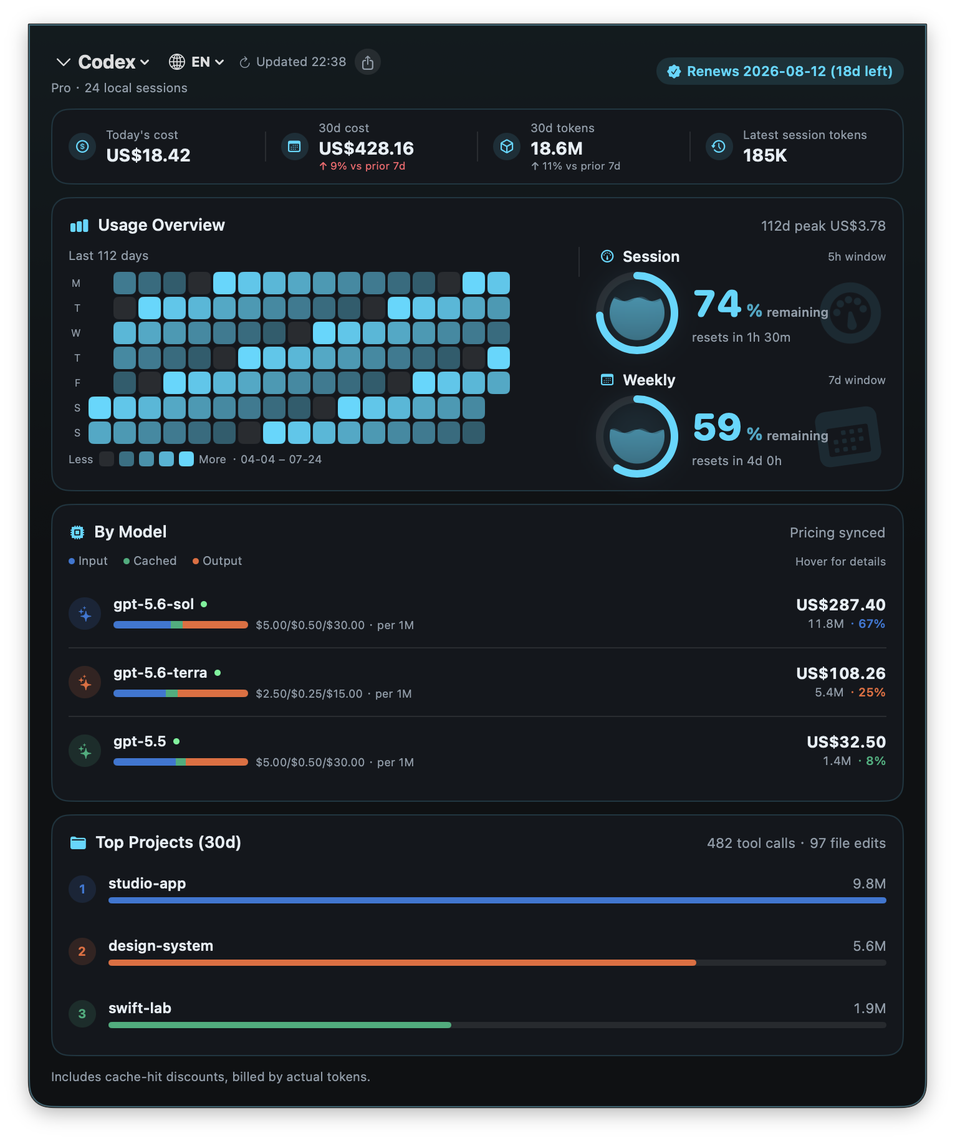
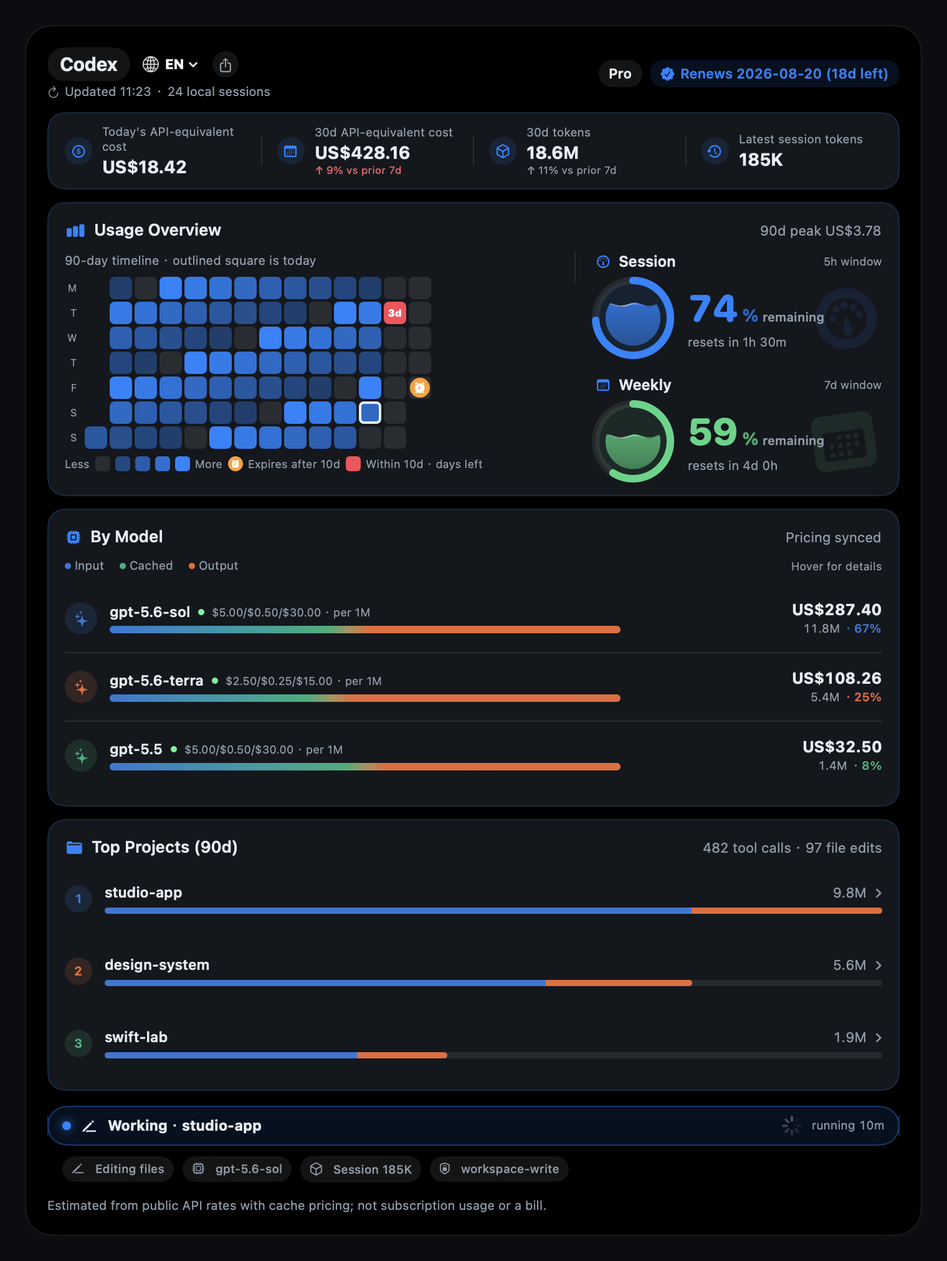
feat: clarify reset expiry heatmap

diff --git a/aibar/Sources/aibar/Features/Dashboard/UsageChartView.swift b/aibar/Sources/aibar/Features/Dashboard/UsageChartView.swift
@@ -6,8 +6,10 @@ private func shortDate(_ isoDate: String) -> String {
 }
 
 /// Presentation policy for manually redeemable reset credits: distant credits
-/// remain quiet calendar markers, while credits expiring within ten days carry
-/// their exact expiry time and an urgency color.
+/// stay quiet alarm markers on their calendar day, while credits expiring
+/// within ten days turn red and carry their remaining-day count. The date
+/// itself is never spelled out — the marker's position in the heatmap is the
+/// date.
 enum ResetExpiryUrgency {
     static let detailedWindow: TimeInterval = 10 * 86_400
 
@@ -94,8 +96,8 @@ struct UsageChartView: View {
     private static let cellSize: CGFloat = 18
     private static let cellSpacing: CGFloat = 2
     private static let legendRatios: [Double] = [0, 0.25, 0.5, 0.75, 1.0]
-    private static let resetColor = Color(red: 1.000, green: 0.280, blue: 0.340)
-    private static let resetSoonColor = Color(red: 1.000, green: 0.620, blue: 0.160)
+    private static let resetUrgentColor = Color(red: 1.000, green: 0.280, blue: 0.340)
+    private static let resetScheduledColor = Color(red: 1.000, green: 0.620, blue: 0.160)
 
     private var daily: [DailyPoint] { timeline.points }
 
@@ -141,43 +143,35 @@ struct UsageChartView: View {
         return timeline.resetExpiriesByDate[point.date] ?? []
     }
 
-    private var expiringSoon: [Double] {
-        timeline.resetExpiriesByDate.values
-            .flatMap { $0 }
-            .filter { ResetExpiryUrgency.isDetailed($0) }
-            .sorted()
-    }
-
-    private func urgencyColor(for expiry: Double) -> Color {
-        switch ResetExpiryUrgency.daysRemaining(expiry) {
-        case 0...1: return Self.resetColor
-        case 2...3: return Color(red: 1.000, green: 0.460, blue: 0.180)
-        default: return Self.resetSoonColor
-        }
+    /// Days left until an imminent expiry. Deliberately unlocalized: at this
+    /// size a CJK glyph is unreadable, and the dashboard already uses the bare
+    /// `d` suffix in both languages (`30d 窗口`).
+    private static func daysLeftBadge(_ expiry: Double) -> String {
+        "\(ResetExpiryUrgency.daysRemaining(expiry))d"
     }
 
     @ViewBuilder
     private func resetMarker(for expiries: [Double]) -> some View {
         if let imminent = expiries.first(where: { ResetExpiryUrgency.isDetailed($0) }) {
             RoundedRectangle(cornerRadius: 4)
-                .fill(urgencyColor(for: imminent))
+                .fill(Self.resetUrgentColor)
                 .overlay(
-                    Text(Formatting.compactTimeLabel(imminent))
-                        .font(.system(size: 5.5, weight: .heavy, design: .monospaced))
+                    Text(Self.daysLeftBadge(imminent))
+                        .font(.system(size: 8, weight: .heavy, design: .rounded))
                         .foregroundStyle(Color.white)
                         .lineLimit(1)
-                        .minimumScaleFactor(0.7)
+                        .minimumScaleFactor(0.6)
                         .padding(.horizontal, 1)
                 )
                 .accessibilityLabel(
-                    "\(L.resetExpiresSoon(lang)): \(Formatting.compactTimeLabel(imminent)), \(L.resetExpiryWithinDays(lang, days: ResetExpiryUrgency.daysRemaining(imminent)))"
+                    L.resetExpiryWithinDays(lang, days: ResetExpiryUrgency.daysRemaining(imminent))
                 )
         } else {
             Circle()
-                .fill(Self.resetColor)
+                .fill(Self.resetScheduledColor)
                 .frame(width: Self.cellSize - 2, height: Self.cellSize - 2)
                 .overlay(
-                    Image(systemName: "arrow.counterclockwise")
+                    Image(systemName: "alarm.fill")
                         .font(.system(size: 8, weight: .heavy))
                         .foregroundStyle(Color.white)
                 )
@@ -190,6 +184,7 @@ struct UsageChartView: View {
             HStack {
                 if let hovered {
                     let expiries = resetExpiries(for: hovered)
+                    let isUrgent = expiries.contains { ResetExpiryUrgency.isDetailed($0) }
                     Text(
                         expiries.isEmpty
                             ? L.heatmapHover(lang, date: shortDate(hovered.date), cost: Formatting.moneyLabel(hovered.cost), tokens: Formatting.tokenLabel(hovered.tokens))
@@ -201,7 +196,11 @@ struct UsageChartView: View {
                             )
                     )
                         .font(.system(size: 10, weight: .semibold))
-                        .foregroundStyle(expiries.isEmpty ? Color.notchAccent : Self.resetColor)
+                        .foregroundStyle(
+                            expiries.isEmpty
+                                ? Color.notchAccent
+                                : (isUrgent ? Self.resetUrgentColor : Self.resetScheduledColor)
+                        )
                 } else {
                     Text(L.heatmapTimelineHint(lang, days: daily.count))
                         .font(.system(size: 10))
@@ -272,54 +271,19 @@ struct UsageChartView: View {
                 }
                 Text(L.more(lang)).font(.system(size: 9)).foregroundStyle(Color.notchMutedInk)
                 Circle()
-                    .fill(Self.resetColor)
+                    .fill(Self.resetScheduledColor)
                     .frame(width: 12, height: 12)
                     .overlay(
-                        Image(systemName: "arrow.counterclockwise")
+                        Image(systemName: "alarm.fill")
                             .font(.system(size: 6, weight: .heavy))
                             .foregroundStyle(Color.white)
                     )
                 Text(L.resetExpiryLegend(lang)).font(.system(size: 9)).foregroundStyle(Color.notchMutedInk)
                 RoundedRectangle(cornerRadius: 3)
-                    .fill(Self.resetSoonColor)
+                    .fill(Self.resetUrgentColor)
                     .frame(width: 12, height: 12)
-                    .overlay(
-                        Image(systemName: "clock.fill")
-                            .font(.system(size: 6, weight: .heavy))
-                            .foregroundStyle(Color.white)
-                    )
-                Text(L.resetExpiresSoon(lang)).font(.system(size: 9)).foregroundStyle(Color.notchMutedInk)
-                if let first = daily.first, let last = daily.last {
-                    Text("· \(shortDate(first.date)) – \(shortDate(last.date))")
-                        .font(.system(size: 9)).foregroundStyle(Color.notchMutedInk)
-                }
+                Text(L.resetExpiryUrgentLegend(lang)).font(.system(size: 9)).foregroundStyle(Color.notchMutedInk)
                 Spacer(minLength: 0)
-            }
-
-            if !expiringSoon.isEmpty {
-                VStack(alignment: .leading, spacing: 4) {
-                    Text(L.resetExpiresSoon(lang))
-                        .font(.system(size: 10, weight: .bold))
-                        .foregroundStyle(Self.resetSoonColor)
-
-                    ForEach(expiringSoon, id: \.self) { expiry in
-                        let days = ResetExpiryUrgency.daysRemaining(expiry)
-                        HStack(spacing: 6) {
-                            Circle()
-                                .fill(urgencyColor(for: expiry))
-                                .frame(width: 6, height: 6)
-                            Text("\(shortDate(Self.isoFormatter.string(from: Date(timeIntervalSince1970: expiry)))) \(Formatting.compactTimeLabel(expiry))")
-                                .font(.system(size: 10, weight: .semibold, design: .monospaced))
-                                .foregroundStyle(Color.notchInk)
-                            Text(L.resetExpiryWithinDays(lang, days: days))
-                                .font(.system(size: 10, weight: .medium))
-                                .foregroundStyle(urgencyColor(for: expiry))
-                            Spacer(minLength: 0)
-                        }
-                    }
-                }
-                .padding(.top, 2)
-                .accessibilityElement(children: .contain)
             }
         }
     }

diff --git a/aibar/Sources/aibar/Core/Services/UsageStore.swift b/aibar/Sources/aibar/Core/Services/UsageStore.swift
@@ -289,9 +289,10 @@ final class UsageStore: ObservableObject {
     }
 
     /// A deterministic, non-sensitive dataset for UI checks and README assets.
-    /// It is available only with `--demo`; ordinary launches always inspect the
-    /// user's local records instead.
-    private static func demoPayload() -> UsagePayload {
+    /// It drives the app only with `--demo` — ordinary launches always inspect
+    /// the user's local records instead — and is reachable directly so the
+    /// documentation images can be rendered from the same numbers.
+    static func demoPayload() -> UsagePayload {
         let now = Date()
         let calendar = Calendar(identifier: .gregorian)
         let daily = (0..<112).map { offset -> DailyPoint in
@@ -357,9 +358,11 @@ final class UsageStore: ObservableObject {
             ],
             subscriptionPlan: "Pro",
             subscriptionActiveUntil: calendar.date(byAdding: .day, value: 19, to: now),
+            // One credit on each side of the ten-day line, so the heatmap shows
+            // both expiry markers: the quiet alarm and the red days-left cell.
             rateLimitResetCredits: RateLimitResetCredits(
-                availableCount: 1,
-                expiresAt: [resetBase + 13 * 86_400]
+                availableCount: 2,
+                expiresAt: [resetBase + 3 * 86_400, resetBase + 13 * 86_400]
             )
         )
     }

diff --git a/aibar/Sources/aibar/Core/Support/Localization.swift b/aibar/Sources/aibar/Core/Support/Localization.swift
@@ -33,8 +33,8 @@ enum L {
     static func resetExpiryLegend(_ lang: AppLanguage) -> String {
         lang == .zh ? "10 天后到期" : "Expires after 10d"
     }
-    static func resetExpiresSoon(_ lang: AppLanguage) -> String {
-        lang == .zh ? "即将到期" : "Expires soon"
+    static func resetExpiryUrgentLegend(_ lang: AppLanguage) -> String {
+        lang == .zh ? "10 天内 · 剩余天数" : "Within 10d · days left"
     }
     static func resetExpiryWithinDays(_ lang: AppLanguage, days: Int) -> String {
         if days == 0 { return lang == .zh ? "今天到期" : "Expires today" }

diff --git a/README.md b/README.md
@@ -2,7 +2,7 @@
 
 [English](#english) · [简体中文](#简体中文)
 
-一个为 macOS 设计的本地 AI 使用情况仪表盘。aibar 把 Codex 的本地会话记录、配额和活动状态收进刘海下方与状态栏：需要时展开查看，不需要时保持安静。
+一个为 macOS 设计的本地 AI 用量仪表盘：aibar 把 Codex 的本地会话记录、配额和运行状态收进刘海下方与状态栏，并用 `fn + 4` 提供一套为 AI 协作准备的截图标注工具——需要时展开查看，不需要时保持安静。
 
 > 版本 0.1.8 · macOS 13 Ventura 或更高版本 · Apple Silicon
 
@@ -12,15 +12,30 @@
 
 ### 功能一览
 
-- **刘海仪表盘**：将指针移到 MacBook 刘海区域，或点击状态栏中的趋势图标，即可展开仪表盘。它展示今日与本月的 API 等价费用、Token、最近会话、会话／周配额、每日使用热图、模型明细、常用项目和工具调用／文件改动统计。
-- **状态栏入口**：左键状态栏图标可直接显示或隐藏仪表盘；右键可开关运行胶囊、开始截图或退出应用。
-- **运行状态胶囊**：在刘海下方显示 Codex 正在进行的工作。每个胶囊显示项目、模型、当前阶段、耗时和上下文 Token；悬停可展开多个并行任务，点击可回到对应的 Codex 对话。任务确认完成后会短暂显示结果，避免把内部回合切换误报为完成。
-- **为 AI 协作优化的截图**：按 `fn + 4` 后拖拽选择区域，进入标注编辑器。可用方框、箭头、圆形、自由画笔和“文字 → 箭头”标记；每个标记自动编号，删除后会重新排序。支持选中删除、撤销、选择颜色、复制到剪贴板和保存图片，便于把明确、可引用的视觉反馈交给 AI 或同事。
-- **中英文界面**：首次启动跟随 macOS 语言；在仪表盘标题栏的语言菜单中选择“中文”或 “English”，选择会在下次启动后保留。
-- **分享卡片**：从仪表盘生成可分享的使用情况卡片，并选择不同的视觉样式。
+以下条目对应上方截图，自上而下即是仪表盘的排布。
+
+- **刘海仪表盘与状态栏入口**：把指针移到 MacBook 刘海区域，或点击状态栏的趋势图标即可展开；左键显示／隐藏仪表盘，右键可开关运行胶囊、开始截图或退出。应用不占用 Dock。
+- **顶部统计条**：今日与 30 天 API 等价费用、30 天 token、最近会话 token，每项都附带与前 7 天的涨跌。
+- **用量总览**：90 天用量热图（含 reset 额度到期标记），右侧是会话（5 小时）与周（7 天）配额，显示剩余百分比和重置倒计时。
+- **按模型统计**：每个模型的费用、token 占比和输入／缓存／输出单价，并标明价格来自实时同步还是离线缓存。
+- **最活跃项目**：按 token 排序的本地项目，点击展开可看模型占比，右上角同时给出工具调用与文件改动次数。
+- **运行状态胶囊**：在刘海下方显示 Codex 正在进行的工作——项目、模型、当前阶段、耗时和上下文 token。悬停可展开多个并行任务，点击可回到对应的 Codex 对话；任务确认完成后才会短暂显示结果，避免把内部回合切换误报为完成。
+- **为 AI 协作优化的截图**：按 `fn + 4` 拖拽选择区域，进入标注编辑器。可用方框、箭头、圆形、自由画笔和“文字 → 箭头”标记；每个标记自动编号，删除后会重新排序。支持选中删除、撤销、选择颜色、复制到剪贴板和保存图片，便于把明确、可引用的视觉反馈交给 AI 或同事。
+- **订阅到期徽章**：读取本地 Codex 登录凭据中的 ChatGPT 订阅信息，在标题栏右上角显示续费日期与剩余天数。
+- **中英文界面与分享卡片**：首次启动跟随 macOS 语言，可在仪表盘标题栏切换，选择会保留到下次启动；分享按钮可生成不同视觉样式的用量卡片。
 - **安全自动更新**：启动时及之后每 6 小时检查 GitHub Releases。右键状态栏图标后选择“检查更新”，若有可用版本，会在 SHA-256 校验完成后自动安装并重启。更新包还必须和当前应用拥有相同的 Bundle ID 与 Developer ID 签名，才能保留 macOS 的屏幕录制等隐私授权；签名不一致时会拒绝自动替换，避免静默失去授权。
-- **本地优先**：Codex 的会话与活动数据在本机读取、聚合。aibar 不上传提示词、响应内容或文件内容；模型定价信息会从公开价格页读取并在本地缓存，显示金额为 API 等价估算，不是账单。
-- **主动预加载**：启动（包括首次安装后首次打开）会立即读取本地会话，并并行刷新模型定价；无需先打开仪表盘即可尽快看到完整数据。
+- **本地优先与主动预加载**：会话与活动数据只在本机读取、聚合，aibar 不上传提示词、响应内容或文件内容；模型定价从公开价格页读取并在本地缓存，显示金额为 API 等价估算，不是账单。启动（包括首次安装后首次打开）会立即读取本地会话并并行刷新定价，无需先打开仪表盘。
+
+### 用量热图
+
+![用量热图](docs/images/heatmap-zh.png)
+
+热图是一条 90 天时间轴：按周一至周日分行、整周成列，颜色深浅表示当天的 API 等价费用，白色方框标记今天。可手动兑换的 reset 额度直接落在它到期的那一格上：
+
+- **闹钟标记**：10 天以后到期，作为安静的日历标记存在。
+- **红色格子**：10 天以内到期，格内直接写出剩余天数（例如 `3d`）。
+
+到期日期不再单独列出——标记所在的格子就是日期。悬停任意格子可以查看当天的费用与 token，或该格上 reset 的具体到期时间。
 
 ### 安装
 
@@ -125,19 +140,34 @@ SIGNING_IDENTITY="Developer ID Application: Your Name (TEAMID)" \
 
 ### Overview
 
-aibar is a local-first macOS dashboard for AI coding activity. It turns Codex session records, quota data, and live activity into a compact view beneath your MacBook notch and a convenient menu-bar control.
+aibar is a local-first macOS dashboard for AI coding usage: it folds Codex session records, quota data, and live activity into the space beneath your MacBook notch and the menu bar, and puts an annotation tool built for AI feedback on `fn + 4` — open when you need it, silent when you don't.
 
 ### Features
 
-- **Notch dashboard** — Hover over the notch or click the menu-bar trend icon to open a dashboard with today/month API-equivalent cost, tokens, recent-session usage, session and weekly limits, daily usage heatmap, model breakdown, top projects, and tool/file-change totals.
-- **Menu-bar controls** — Left-click to show or hide the dashboard. Right-click to toggle the activity capsule, start a screenshot, or quit.
+The list below follows the screenshot at the top of this page, from top to bottom.
+
+- **Notch dashboard and menu-bar controls** — Hover over the notch or click the menu-bar trend icon to open the dashboard. Left-click toggles it; right-click toggles the activity capsule, starts a screenshot, or quits. Nothing occupies the Dock.
+- **Stat strip** — Today's and 30-day API-equivalent cost, 30-day tokens, and latest-session tokens, each with its trend against the prior 7 days.
+- **Usage overview** — A 90-day usage heatmap with reset-credit expiry markers, beside session (5h) and weekly (7d) quota meters showing percent remaining and reset countdowns.
+- **By model** — Per-model cost, token share, and input/cached/output rates, labeled as live or cached pricing.
+- **Top projects** — Local projects ranked by tokens, expandable to per-model shares, with tool-call and file-edit totals alongside.
 - **Live activity capsule** — A floating capsule under the notch reports active Codex work: project, model, phase, elapsed time, and context tokens. Hover to expand simultaneous conversations; click a capsule to return to its Codex conversation. Completion notices are confirmed across polls so an internal turn boundary is not presented as a finished task.
 - **Screenshots made for AI feedback** — Press `fn + 4`, select a region, then annotate it with rectangles, arrows, ovals, freehand pen marks, or text-to-arrow callouts. Marks are automatically numbered and renumber after deletion. Select/delete, undo, color selection, copy, and save are all built in, making visual feedback precise and easy to reference.
-- **Chinese and English UI** — The initial language follows macOS. Switch between 中文 and English from the dashboard header; the choice persists across launches.
-- **Share cards** — Generate a shareable usage summary card with selectable styles.
+- **Subscription badge** — Renewal date and days left, read from the ChatGPT subscription info in the local Codex credentials.
+- **Bilingual UI and share cards** — The initial language follows macOS; switch between 中文 and English from the dashboard header and the choice persists across launches. The share button exports a usage summary card with selectable styles.
 - **Safe automatic updates** — Check GitHub Releases at launch and every six hours. Choose **Check for Updates** from the menu-bar icon’s right-click menu to download, verify, install, and relaunch when an update is available. Automatic replacement requires the same bundle ID and Developer ID signing identity, preserving macOS privacy consent such as Screen Recording; a mismatched signature is refused rather than silently changing that identity.
-- **Local first** — Session and activity data are read and aggregated on your Mac. aibar does not upload prompts, responses, or file contents. Public pricing data may be fetched and cached locally; displayed prices are API-equivalent estimates, not invoices.
-- **Eager loading** — At launch, including the first launch after installation, aibar immediately reads local sessions and refreshes model pricing in parallel, so the dashboard does not need to be opened before data begins loading.
+- **Local first and eager loading** — Session and activity data are read and aggregated on your Mac; aibar does not upload prompts, responses, or file contents. Public pricing data may be fetched and cached locally, and displayed prices are API-equivalent estimates, not invoices. At launch, including the first launch after installation, local sessions are read and pricing refreshed in parallel, so the dashboard does not need to be opened before data loads.
+
+### Usage heatmap
+
+![usage heatmap](docs/images/heatmap-en.png)
+
+The heatmap is a 90-day timeline laid out as full Mon–Sun weeks: color encodes that day's API-equivalent cost, and an outlined square marks today. Manually redeemable reset credits sit on the exact day they expire:
+
+- **Alarm marker** — expires more than 10 days out, kept as a quiet calendar marker.
+- **Red cell** — expires within 10 days, with the days left written straight into the cell (`3d`).
+
+Expiry dates are never spelled out separately: the marker's position on the grid is the date. Hover any cell for that day's cost and tokens, or for a reset's exact expiry time.
 
 ### Install
 

diff --git a/AGENTS.md b/AGENTS.md
@@ -1,0 +1,44 @@
+<!-- gitnexus:start -->
+# GitNexus — Code Intelligence
+
+This project is indexed by GitNexus as **aibar** (2275 symbols, 8873 relationships, 200 execution flows). Use the GitNexus MCP tools to understand code, assess impact, and navigate safely.
+
+> Index stale? Run `node .gitnexus/run.cjs analyze` from the project root — it auto-selects an available runner. No `.gitnexus/run.cjs` yet? `npx gitnexus analyze` (npm 11 crash → `npm i -g gitnexus`; #1939).
+
+## Always Do
+
+- **MUST run impact analysis before editing any symbol.** Before modifying a function, class, or method, run `impact({target: "symbolName", direction: "upstream"})` and report the blast radius (direct callers, affected processes, risk level) to the user.
+- **MUST run `detect_changes()` before committing** to verify your changes only affect expected symbols and execution flows. For regression review, compare against the default branch: `detect_changes({scope: "compare", base_ref: "main"})`.
+- **MUST warn the user** if impact analysis returns HIGH or CRITICAL risk before proceeding with edits.
+- When exploring unfamiliar code, use `query({search_query: "concept"})` to find execution flows instead of grepping. It returns process-grouped results ranked by relevance.
+- When you need full context on a specific symbol — callers, callees, which execution flows it participates in — use `context({name: "symbolName"})`.
+- For security review, `explain({target: "fileOrSymbol"})` lists taint findings (source→sink flows; needs `analyze --pdg`).
+
+## Never Do
+
+- NEVER edit a function, class, or method without first running `impact` on it.
+- NEVER ignore HIGH or CRITICAL risk warnings from impact analysis.
+- NEVER rename symbols with find-and-replace — use `rename` which understands the call graph.
+- NEVER commit changes without running `detect_changes()` to check affected scope.
+
+## Resources
+
+| Resource | Use for |
+|----------|---------|
+| `gitnexus://repo/aibar/context` | Codebase overview, check index freshness |
+| `gitnexus://repo/aibar/clusters` | All functional areas |
+| `gitnexus://repo/aibar/processes` | All execution flows |
+| `gitnexus://repo/aibar/process/{name}` | Step-by-step execution trace |
+
+## CLI
+
+| Task | Read this skill file |
+|------|---------------------|
+| Understand architecture / "How does X work?" | `.claude/skills/gitnexus/gitnexus-exploring/SKILL.md` |
+| Blast radius / "What breaks if I change X?" | `.claude/skills/gitnexus/gitnexus-impact-analysis/SKILL.md` |
+| Trace bugs / "Why is X failing?" | `.claude/skills/gitnexus/gitnexus-debugging/SKILL.md` |
+| Rename / extract / split / refactor | `.claude/skills/gitnexus/gitnexus-refactoring/SKILL.md` |
+| Tools, resources, schema reference | `.claude/skills/gitnexus/gitnexus-guide/SKILL.md` |
+| Index, status, clean, wiki CLI commands | `.claude/skills/gitnexus/gitnexus-cli/SKILL.md` |
+
+<!-- gitnexus:end -->

diff --git a/CLAUDE.md b/CLAUDE.md
@@ -1,0 +1,44 @@
+<!-- gitnexus:start -->
+# GitNexus — Code Intelligence
+
+This project is indexed by GitNexus as **aibar** (2275 symbols, 8873 relationships, 200 execution flows). Use the GitNexus MCP tools to understand code, assess impact, and navigate safely.
+
+> Index stale? Run `node .gitnexus/run.cjs analyze` from the project root — it auto-selects an available runner. No `.gitnexus/run.cjs` yet? `npx gitnexus analyze` (npm 11 crash → `npm i -g gitnexus`; #1939).
+
+## Always Do
+
+- **MUST run impact analysis before editing any symbol.** Before modifying a function, class, or method, run `impact({target: "symbolName", direction: "upstream"})` and report the blast radius (direct callers, affected processes, risk level) to the user.
+- **MUST run `detect_changes()` before committing** to verify your changes only affect expected symbols and execution flows. For regression review, compare against the default branch: `detect_changes({scope: "compare", base_ref: "main"})`.
+- **MUST warn the user** if impact analysis returns HIGH or CRITICAL risk before proceeding with edits.
+- When exploring unfamiliar code, use `query({search_query: "concept"})` to find execution flows instead of grepping. It returns process-grouped results ranked by relevance.
+- When you need full context on a specific symbol — callers, callees, which execution flows it participates in — use `context({name: "symbolName"})`.
+- For security review, `explain({target: "fileOrSymbol"})` lists taint findings (source→sink flows; needs `analyze --pdg`).
+
+## Never Do
+
+- NEVER edit a function, class, or method without first running `impact` on it.
+- NEVER ignore HIGH or CRITICAL risk warnings from impact analysis.
+- NEVER rename symbols with find-and-replace — use `rename` which understands the call graph.
+- NEVER commit changes without running `detect_changes()` to check affected scope.
+
+## Resources
+
+| Resource | Use for |
+|----------|---------|
+| `gitnexus://repo/aibar/context` | Codebase overview, check index freshness |
+| `gitnexus://repo/aibar/clusters` | All functional areas |
+| `gitnexus://repo/aibar/processes` | All execution flows |
+| `gitnexus://repo/aibar/process/{name}` | Step-by-step execution trace |
+
+## CLI
+
+| Task | Read this skill file |
+|------|---------------------|
+| Understand architecture / "How does X work?" | `.claude/skills/gitnexus/gitnexus-exploring/SKILL.md` |
+| Blast radius / "What breaks if I change X?" | `.claude/skills/gitnexus/gitnexus-impact-analysis/SKILL.md` |
+| Trace bugs / "Why is X failing?" | `.claude/skills/gitnexus/gitnexus-debugging/SKILL.md` |
+| Rename / extract / split / refactor | `.claude/skills/gitnexus/gitnexus-refactoring/SKILL.md` |
+| Tools, resources, schema reference | `.claude/skills/gitnexus/gitnexus-guide/SKILL.md` |
+| Index, status, clean, wiki CLI commands | `.claude/skills/gitnexus/gitnexus-cli/SKILL.md` |
+
+<!-- gitnexus:end -->
